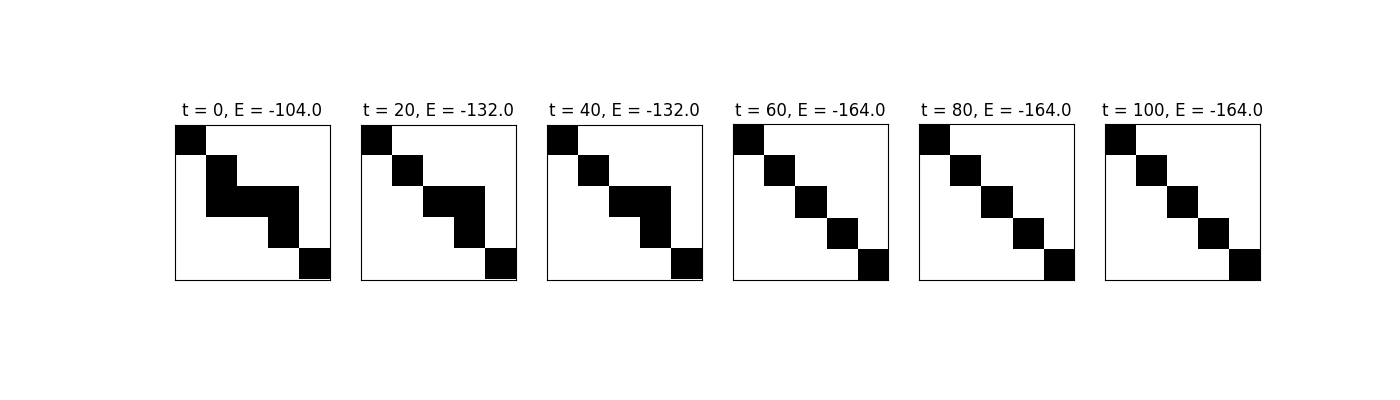
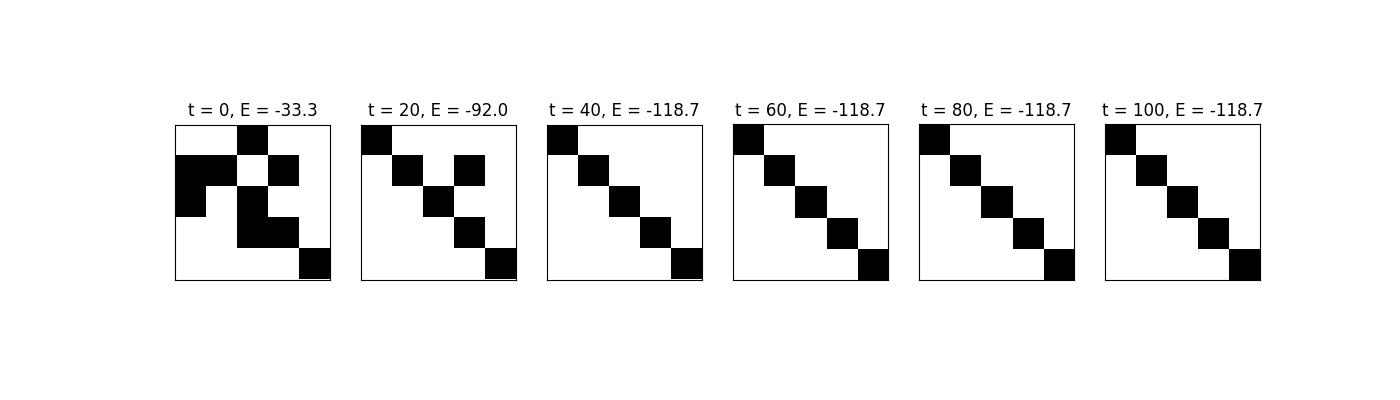
calc acc

diff --git a/Hopfield.py b/Hopfield.py
@@ -28,7 +28,8 @@ class Hopfield:
         plt.show()
 
 d = 5 # data size of one side
-p = 0.1 # noise probability
+p = 0.3 # noise probability
+Q = 3 # number of train data
 
 # train data static defined
 trainData = np.array([[[1, -1, -1, -1, -1],
@@ -40,8 +41,13 @@ trainData = np.array([[[1, -1, -1, -1, -1],
                       [-1, -1, 1, -1, -1],
                       [-1, -1, 1, -1, -1],
                       [-1, -1, 1, -1, -1],
-                      [-1, -1, 1, -1, -1]]
-                      ])
+                      [-1, -1, 1, -1, -1]],
+                      [[-1, -1, -1, -1, -1],
+                      [-1, -1, -1, -1, -1],
+                      [1, 1, 1, 1, 1],
+                      [-1, -1, -1, -1, -1],
+                      [-1, -1, -1, -1, -1]]
+                      ]) # high orthogonality
 trainData = np.reshape(trainData, (trainData.shape[0], 25))
 
 # testData = np.random.randint(2, size=(5, 5))
@@ -50,12 +56,12 @@ trainData = np.reshape(trainData, (trainData.shape[0], 25))
 # generate noise
 noise = np.random.choice(a=[1, -1], size=(1, d**2), p=[1-p, p])
 testData = trainData*noise
-print(f'testdata {testData.shape}')
 
+# train model
 hn = Hopfield(dataSize=d)
 hn.fit(trainData)
-print(f'self.W {hn.W.shape}, self.thres {hn.thres.shape}')
 
+# associate
 data = []
 energy = []
 data.append(testData.copy()) # append initial state
@@ -68,17 +74,22 @@ for it in range(1, 101):
         data.append(newTestData.copy())
         energy.append(newEnergy.copy())
 
+# calculate eval value
+similarity = np.count_nonzero(data[len(data)-1] - trainData == 0, axis=1)/(d**2)
+accuracy = np.count_nonzero(similarity == 1.0)/Q
+print(similarity, accuracy)
+
 fig = plt.figure(figsize=(14, 4))
 
 # plot about each test data
-for q in range(2):
+for q in range(Q):
     for i in range(len(data)):
         plotData = np.reshape(data[i][q], (d, d))
         plt.subplot(1, len(data), i+1)
         plt.imshow(plotData, cmap='Greys')
         plt.xticks([])
         plt.yticks([])
-        plt.title(f't = {20 * i}, E = {energy[i][q]}')
+        plt.title(f't = {20 * i}, E = {energy[i][q] :.1f}')
 
     plt.savefig(f'result/fig_pattern{q}.png')
 # plt.show()
